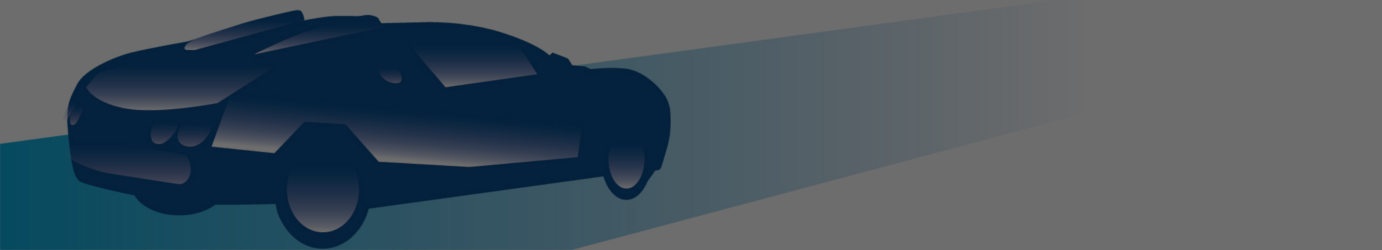
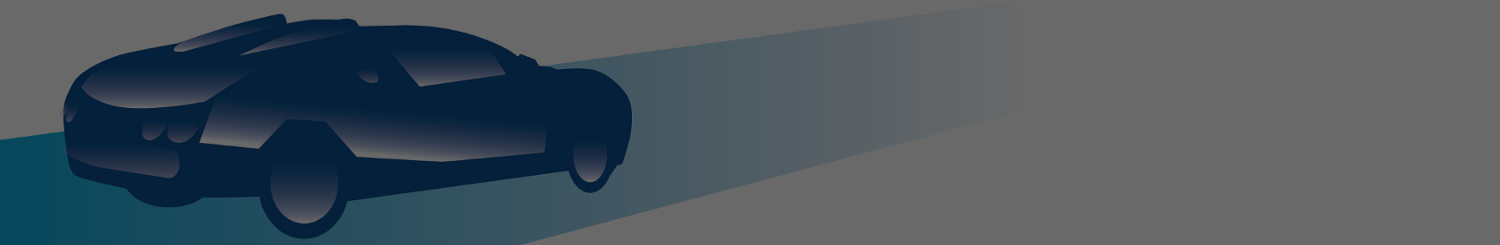
images

diff --git a/css/style.css b/css/style.css
@@ -137,7 +137,7 @@ header .splash img {
 
   width: 100%;
   height: inherit;
-  transition: all .5s;
+  transition: all .3s;
 }
 
 
@@ -148,7 +148,7 @@ header .home-bg  img{
 }
 
 header .products-bg img { 
-    background-image: url('../images/products2.jpg');
+    background-image: url('../images/products.jpg');
     background-size: cover;
     background-position: top left;
 }
